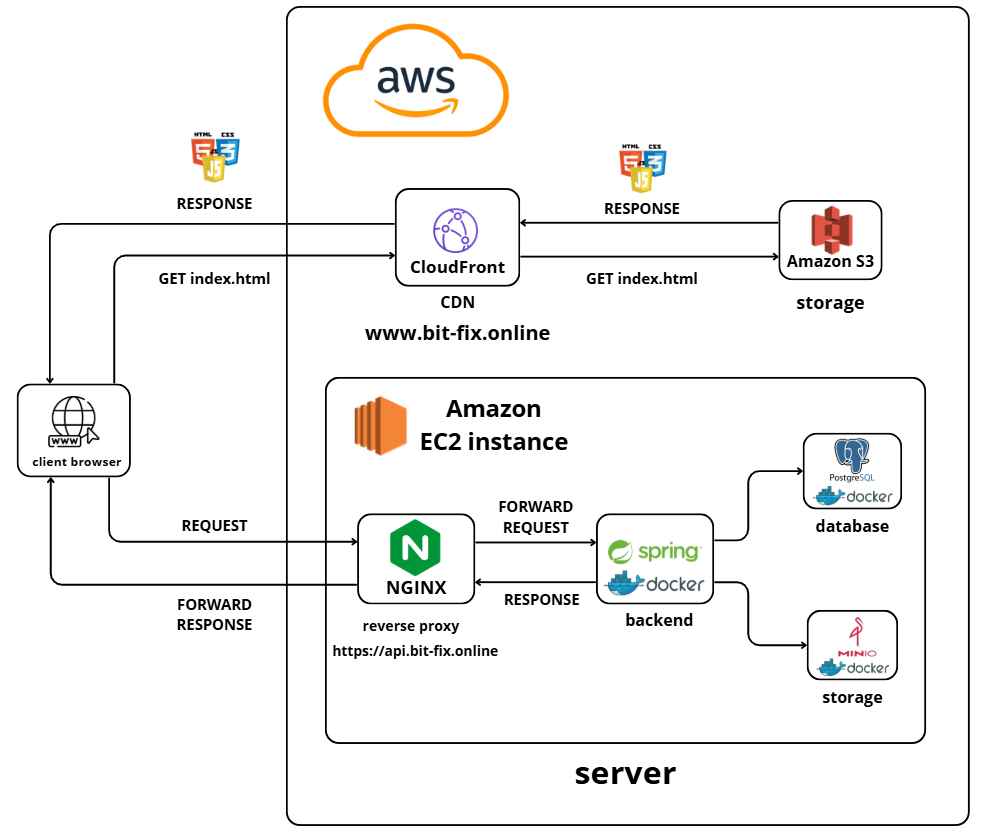
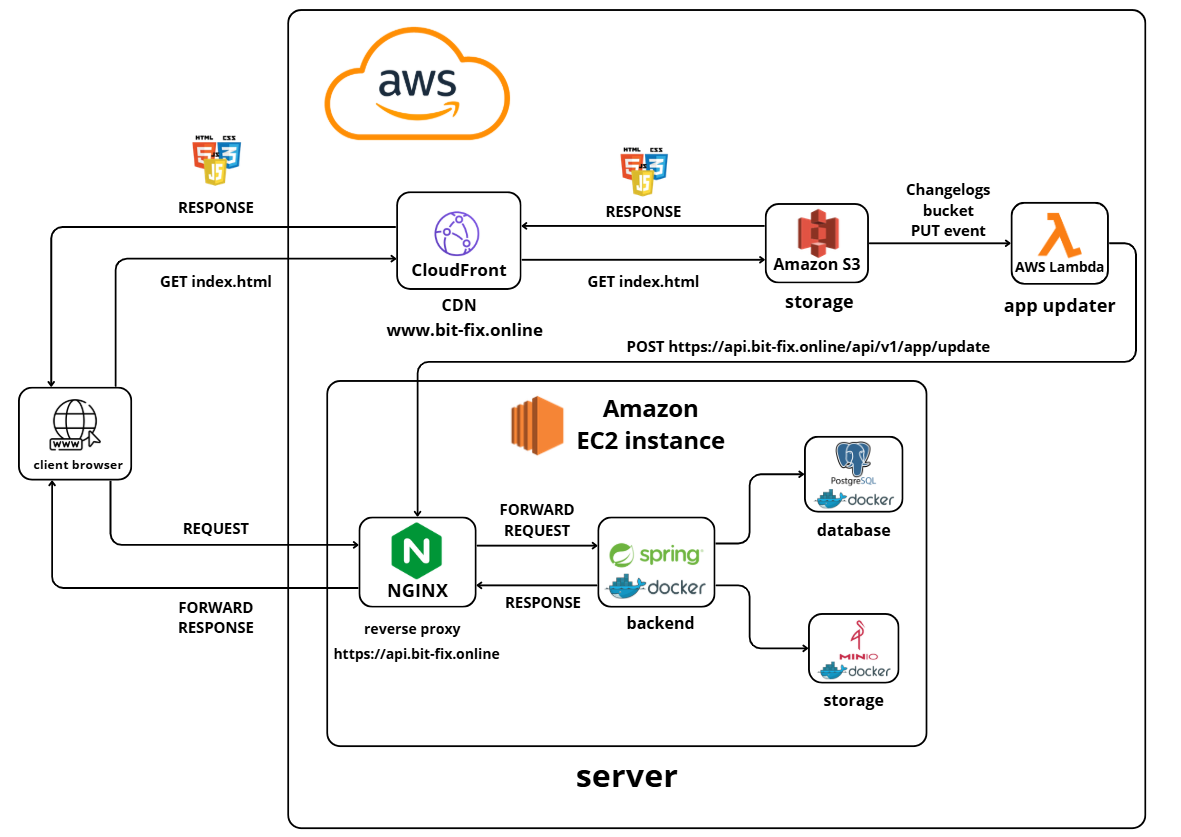
Update env variables section in readme, update architecture.png

diff --git a/README.md b/README.md
@@ -45,6 +45,7 @@ canceled.
 # System architecture
 
 The application follows a modular backend architecture built with Java Spring Boot.
+
 - Each module encapsulates specific business logic.
 - PostgreSQL stores persistent data.
 - MinIO handles file storage.
@@ -178,6 +179,7 @@ From `.env.example` create an `.env` file in the root directory and define the f
 | `JWT_EXPIRATION`                  | JWT token expiration in milliseconds         | `86400000`                                      |
 | `JWT_REFRESH_TOKEN_EXPIRATION`    | JWT refresh token expiration in milliseconds | `604800000`                                     |
 | `SERVER_PUBLIC_ADDRESS`           | Backend public URL                           | `http://localhost:8090`                         |
+| `PASSWORD_RESET_ALLOWED_URLS`     | Urls allwoed as redirect url for links       | `http://localhost:8090`                         |
 | `ALLOWED_ORIGINS`                 | Allowed origins                              | `http://localhost:8090`                         |
 | `ALLOWED_METHODS`                 | Allowed methods                              | `GET,POST,PATCH,DELETE,OPTIONS`                 |
 | `ALLOWED_HEADERS`                 | Allowed headers                              | `*`                                             |
@@ -200,6 +202,7 @@ From `.env.example` create an `.env` file in the root directory and define the f
 | `SUPER_ADMIN_PASSWORD`            | Password for the super admin                 | `supersecurepassword`                           |
 | `FINANCES_CURRENCY`               | Default currency for finances                | `PLN`                                           |
 | `FINANCES_STARTING_BALANCE`       | Default starting balance for new accounts    | `1000000`                                       |
+| `APP_UPDATE_SECRET_KEY`           | Secret to authorize on app update endpoint   | `23ed76a...`                                    |
 
 ---
 
